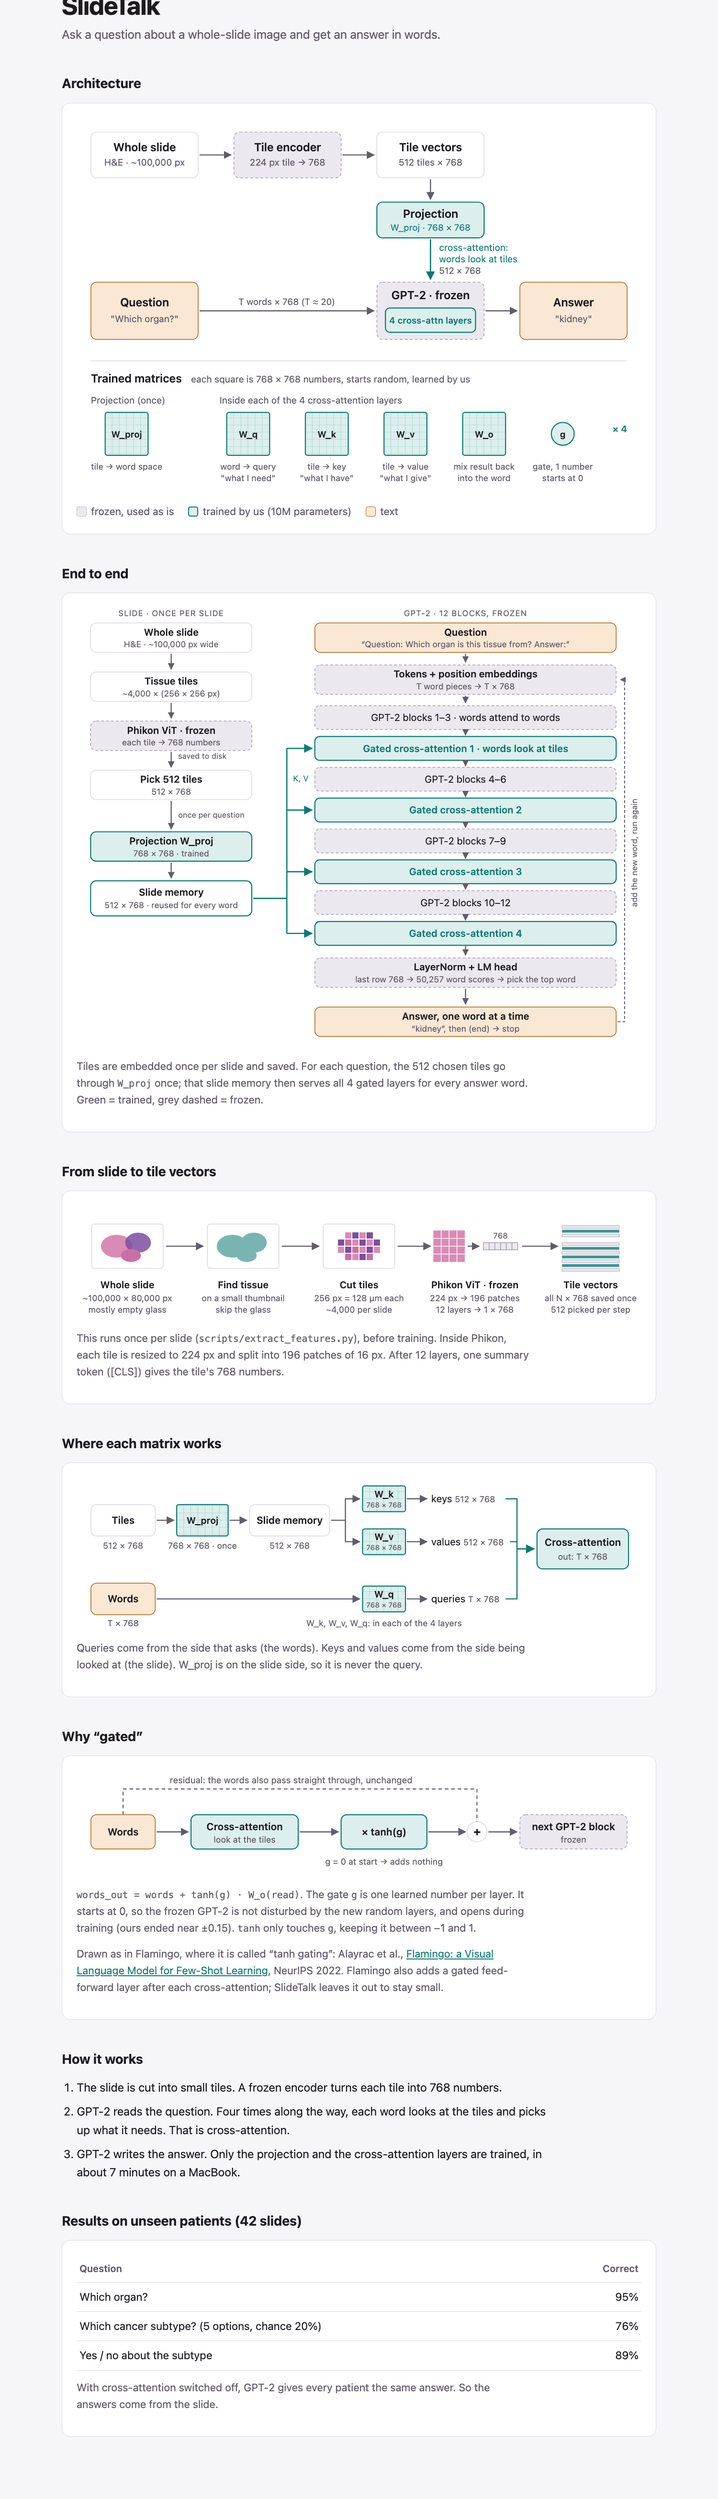
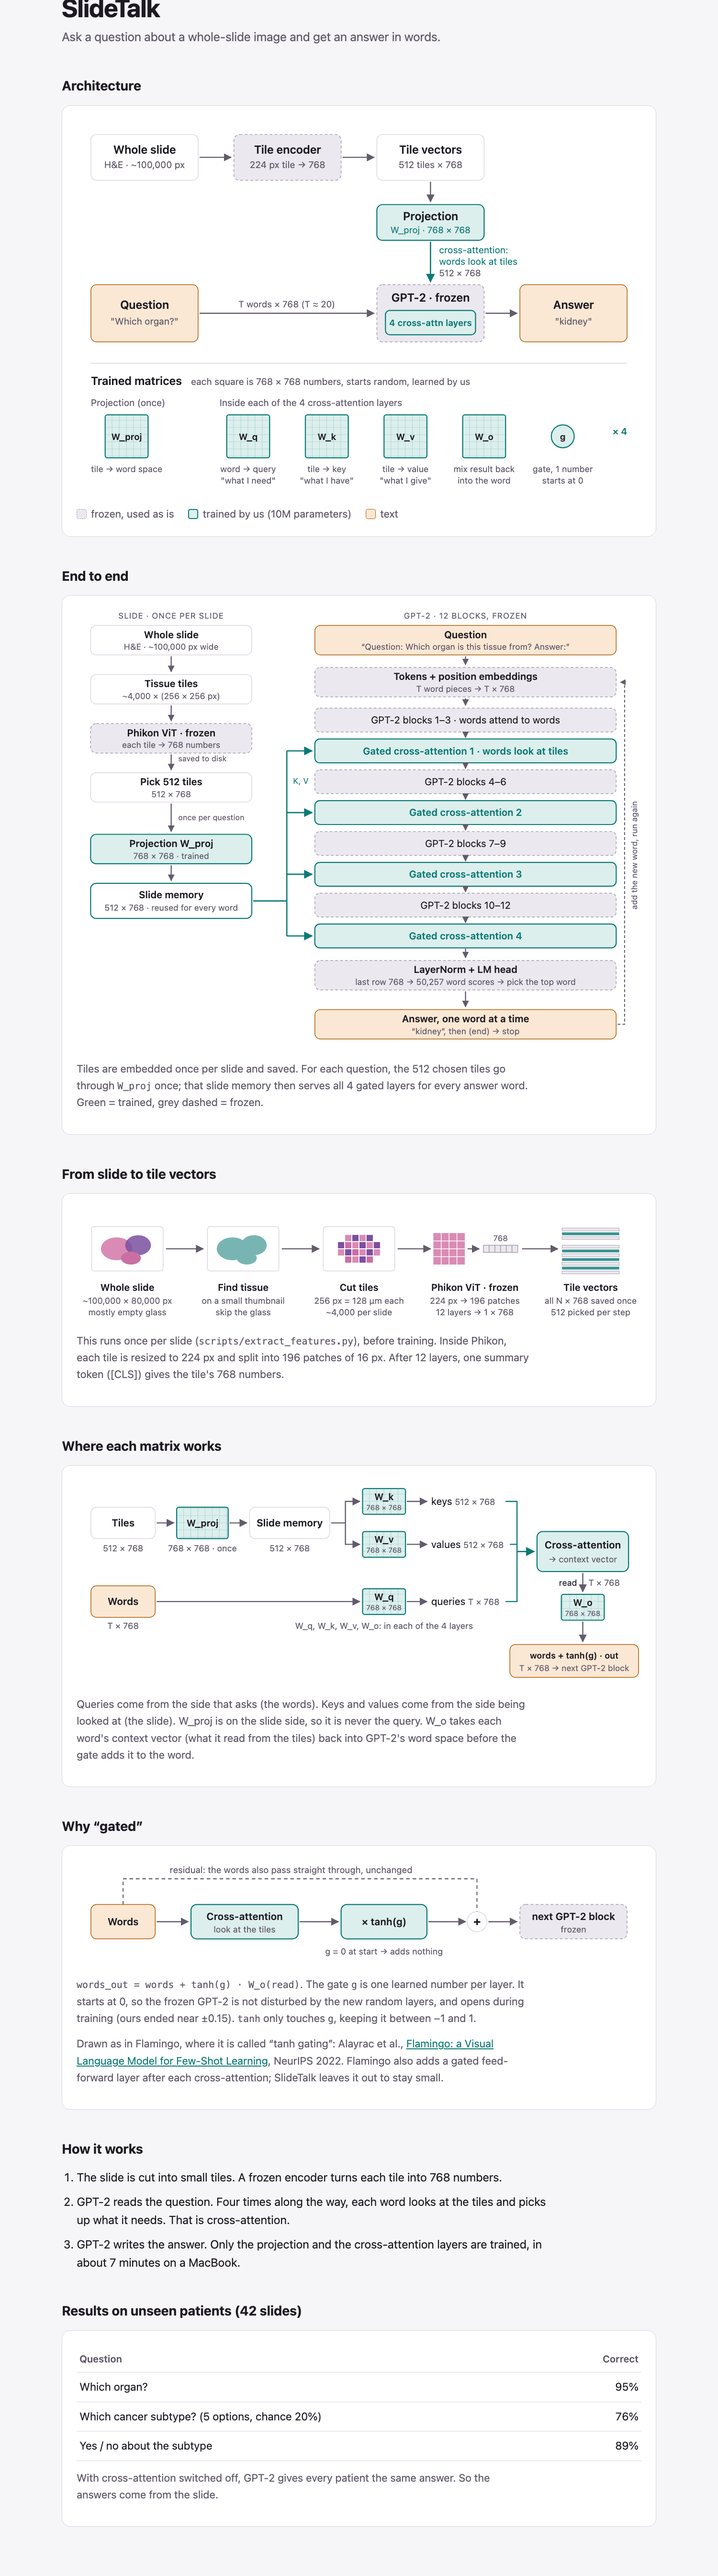
Show W_o and the gated residual in the matrix diagram and README

diff --git a/README.md b/README.md
@@ -14,6 +14,16 @@ the new, randomly initialised layers add nothing and the frozen GPT-2 works exac
 open during training. This is the "tanh gating" of Flamingo
 ([Alayrac et al., NeurIPS 2022](https://arxiv.org/abs/2204.14198)), without its extra gated feed-forward layer.
 
+Inside each gated layer, `W_q`, `W_k` and `W_v` find what to read; `W_o` maps what was read back into
+GPT-2's word space before the gate adds it:
+
+```
+word ──► query ──► compares with tile keys ──► weights ──► context vector (read)
+                                                              │
+                                                              ▼  × W_o
+                                                 word + tanh(g) · (read · W_oᵀ)
+```
+
 ## Results
 
 42 slides from patients never seen in training (5 TCGA subtypes: lung adenocarcinoma, lung squamous,
